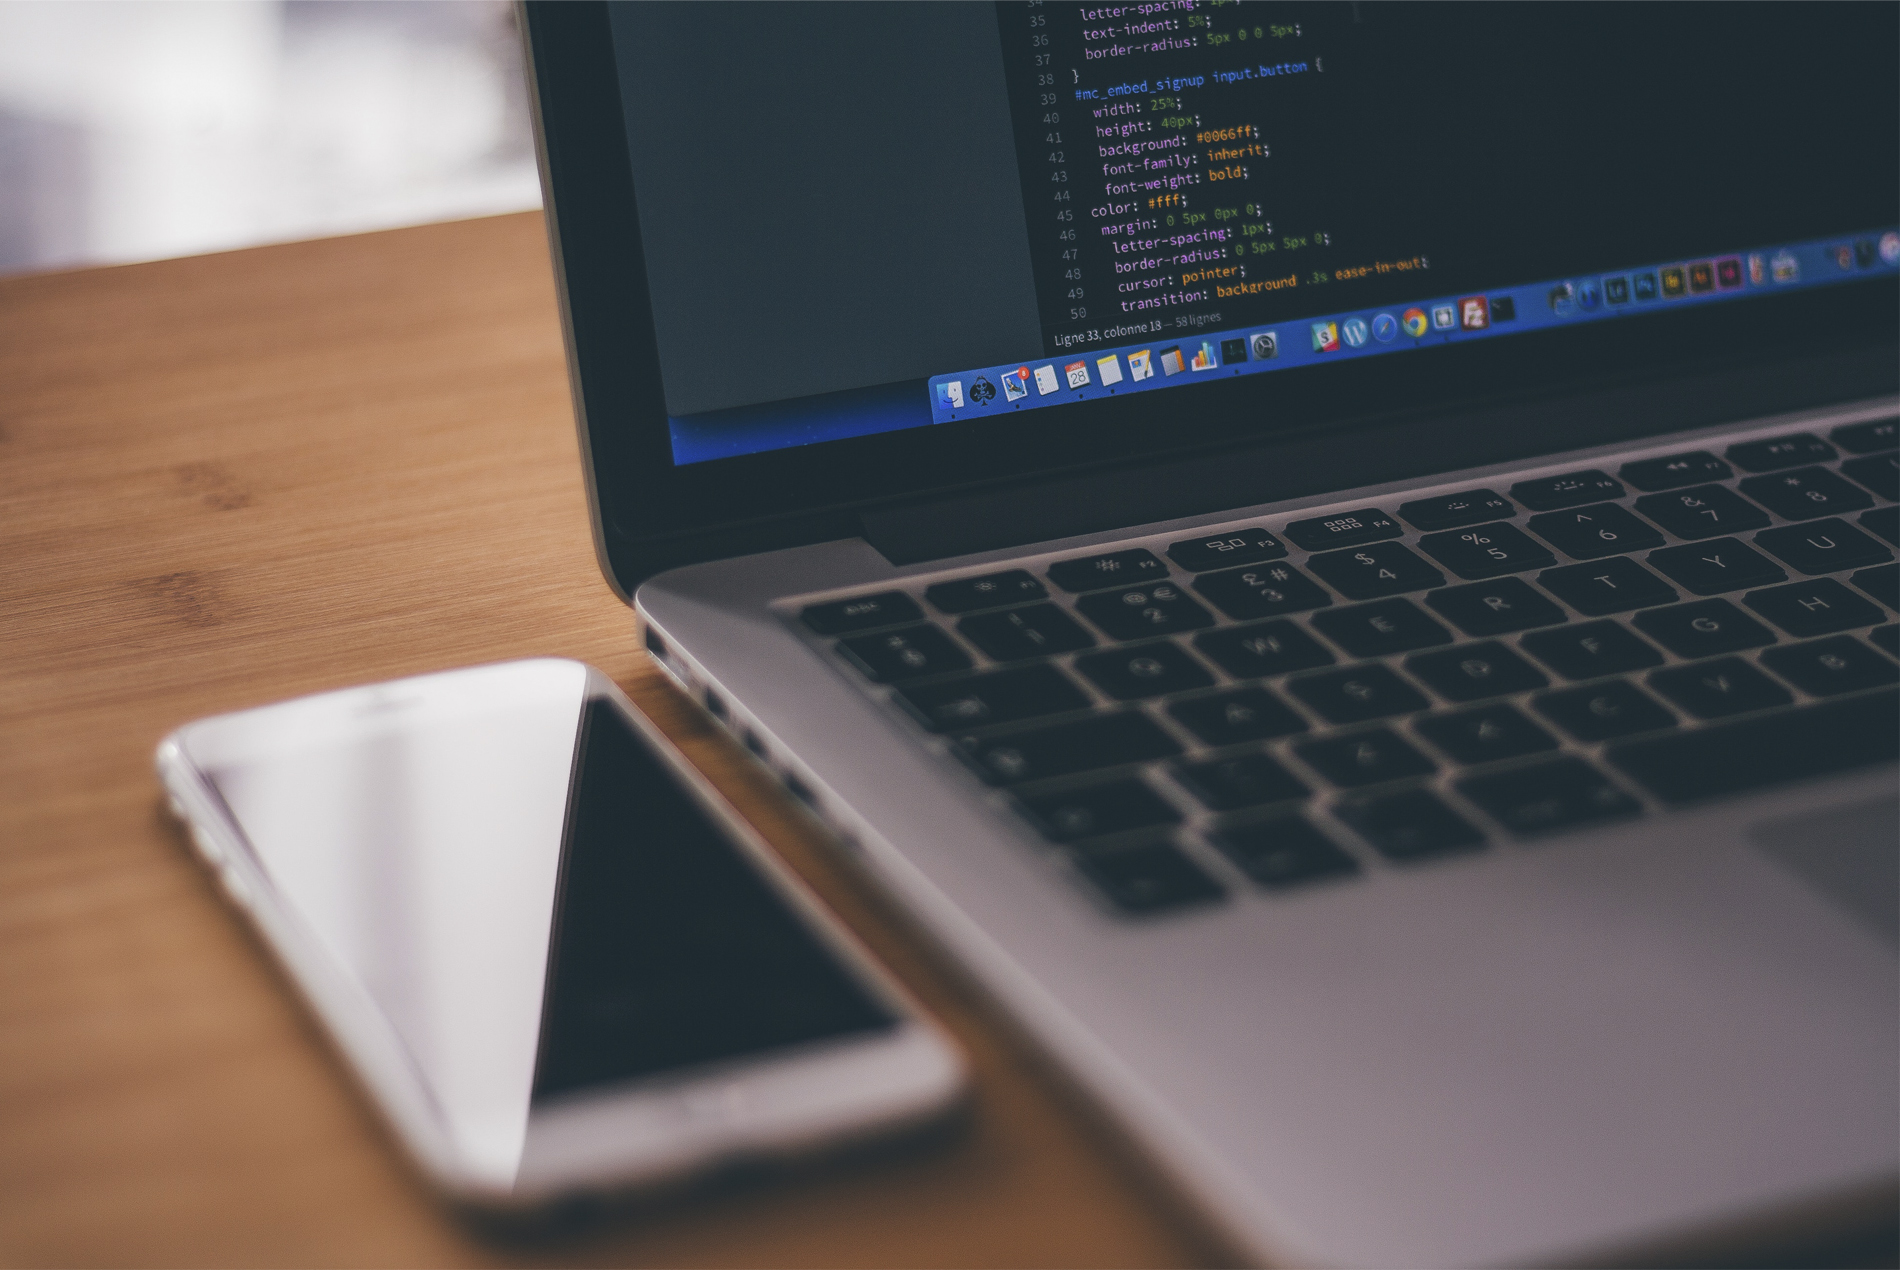
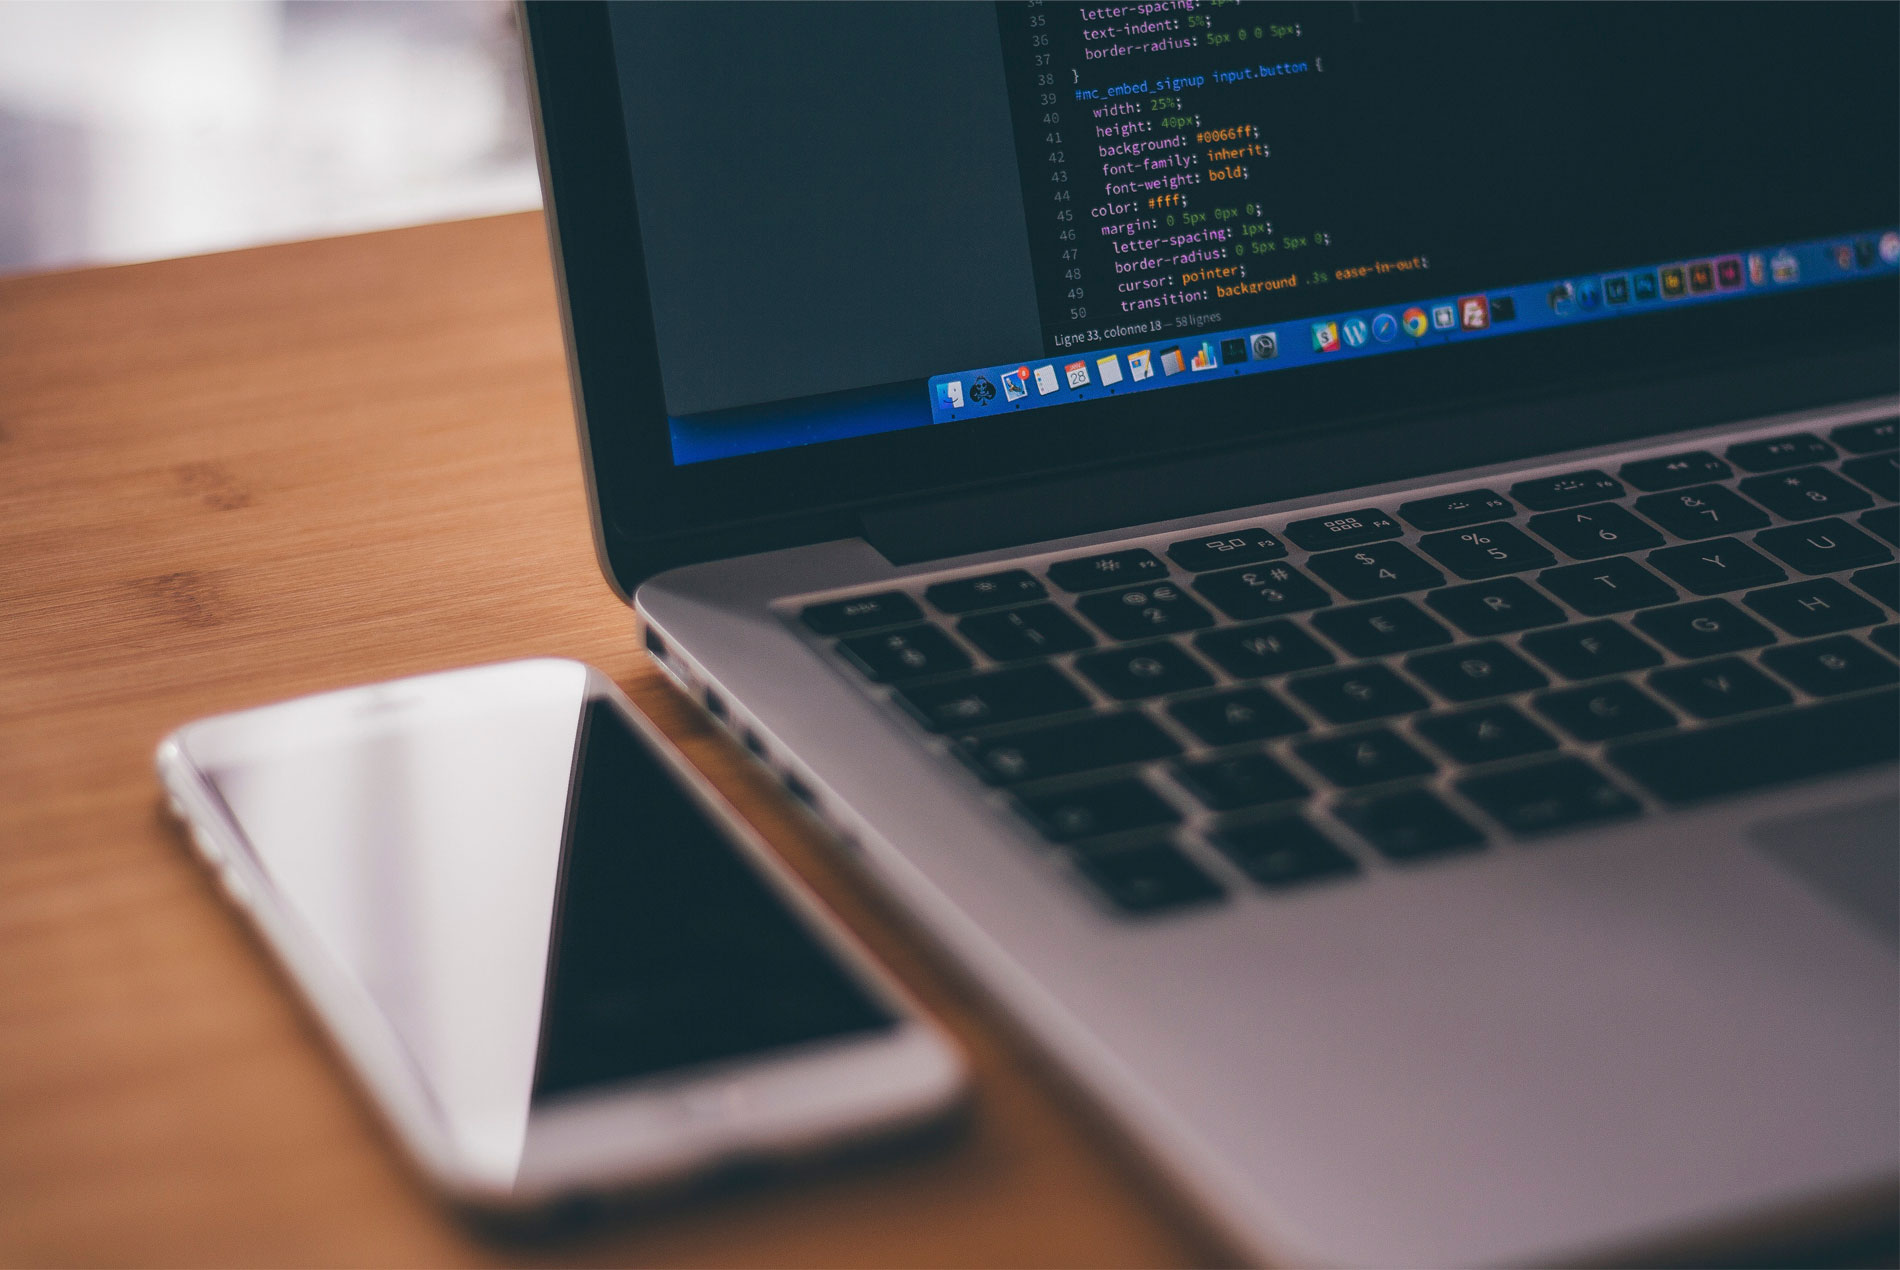
Remplace images pages
remplace and optimize images for pages

Changed region(s): [[0.3416, 0.1843, 1.0, 0.3685], [0.6521, 0.0307, 0.6832, 0.0614], [0.59, 0.0614, 0.6211, 0.0921]]

diff --git a/terminos-y-condiciones.html b/terminos-y-condiciones.html
@@ -4,7 +4,7 @@ title: Términos y condiciones de uso
 description: 
 background: '/img/terminos-y-condiciones.jpg'
 ---
-<h3>información relevante</h3>
+<h3>Información relevante</h3>
 
 <p>Es requisito necesario para la adquisición de los productos que se ofrecen en este sitio, que lea y acepte los siguientes Términos y Condiciones que a continuación se redactan. El uso de nuestros servicios así como la compra de nuestros productos implicará que usted ha leído y aceptado los Términos y Condiciones de Uso en el presente documento. Todas los productos  que son ofrecidos por nuestro sitio web pudieran ser creadas, cobradas, enviadas o presentadas por una página web tercera y en tal caso estarían sujetas a sus propios Términos y Condiciones. En algunos casos, para adquirir un producto, será necesario el registro por parte del usuario, con ingreso de datos personales fidedignos y definición de una contraseña.
 
